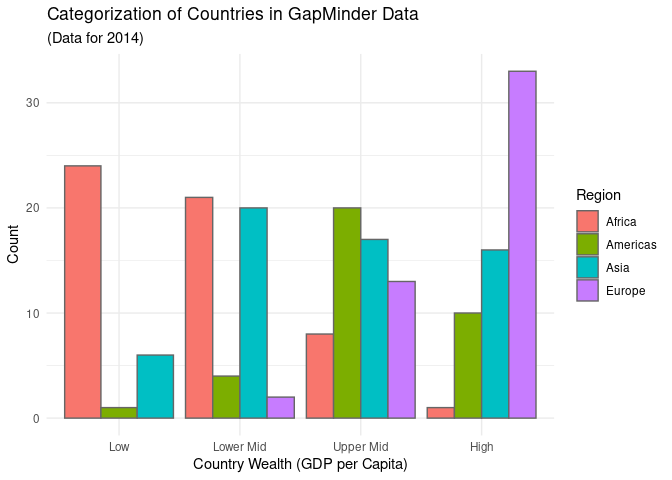
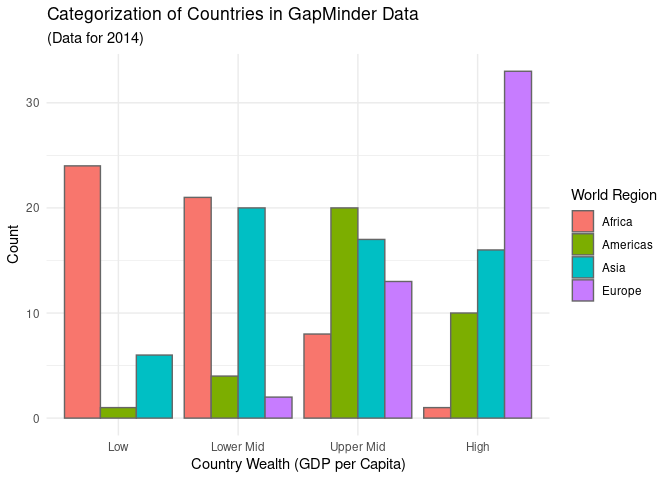
Fix even more errors in ggplot intro.

diff --git a/content/lehre/statistik-ii/grafiken-ggplot2.md b/content/lehre/statistik-ii/grafiken-ggplot2.md
@@ -190,7 +190,7 @@ In diesem Schritt wird noch einmal deutlich, was ich gerade bereits angesprochen
 
 > Daten müssen immer so aufbereitet sein, dass der grundlegende Datensatz sinnvoll benannte Variablen enthält und in dem Format vorliegt, in welchem wir die Daten visualisieren wollen.
 >
-> - ich, vor wenigen Minuten
+> -- ich, vor wenigen Minuten
 
 Wenn uns also etwas in unserer Abbildung nicht gefällt, ist der Ansatz in `ggplot` immer, die Daten anzupassen, weil Plots lediglich eine Darstellung dieser Daten sind. 
 
@@ -206,13 +206,7 @@ ggplot(edu_2014, aes(x = Wealth)) +
 
 Der immense Vorteil des Schichtens besteht darin, dass wir gleichzeitig mehrere Visualisierungsformen nutzen können. Das Prinzip bleibt das gleiche wie vorher: wir fügen Schichten mit dem `+` hinzu. Wir können also z.B. für Zeitverläufe einfach Punkte und Linien direkt miteinander kombinieren, oder für Abbildungen die Fehlerbalken direkt hinzufügen.
 
-In der Abbildung sieht es zunächst ganz danach aus, als hätten hauptsächlich reiche Länder Daten bereitgestellt. Weil die `NA` Kategorie uns nicht besonders viel Information liefert, schließen wir diese für die kommenden Abbildungen mal aus:
-
-
-```r
-edu_2014 <- subset(edu_2014, !is.na(Wealth))
-```
-
+In der Abbildung sieht es zunächst ganz danach aus, als hätten hauptsächlich reiche Länder Daten bereitgestellt.
 
 ### Plots als Objekte
 
@@ -245,7 +239,7 @@ ggplot(edu_2014, aes(x = Wealth)) +
   geom_bar(fill = 'blue', color = 'grey40')
 ```
 
-![](/lehre/statistik-ii/grafiken-ggplot2_files/figure-html/unnamed-chunk-10-1.png)<!-- -->
+![](/lehre/statistik-ii/grafiken-ggplot2_files/figure-html/unnamed-chunk-9-1.png)<!-- -->
 Bei Balken wird die Farbe des Balkens durch das Argument `fill` bestimmt - das Argument `color` bestimmt hingegen nur die Farbe des Rands. In diesem Fall haben alle Balken die Farbe geändert. Eine _Ästhetik_ im Sinne der `ggplot`-Grammatik ist immer abhängig von den Daten. Die globale Vergabe von Farbe ist also keine Ästhetik. Sie ist es nur, wenn wir sie von Ausprägungen der Daten abhängig machen. Das funktioniert z.B. so:
 
 
@@ -254,7 +248,7 @@ ggplot(edu_2014, aes(x = Wealth)) +
   geom_bar(aes(fill = Wealth), color = 'grey40')
 ```
 
-![](/lehre/statistik-ii/grafiken-ggplot2_files/figure-html/unnamed-chunk-11-1.png)<!-- -->
+![](/lehre/statistik-ii/grafiken-ggplot2_files/figure-html/unnamed-chunk-10-1.png)<!-- -->
 
 Über den Befehl `aes` definieren wir eine Ästhetik und sagen `ggplot`, dass die Farbe der Balken von der Ausprägung auf der Variable `Wealth` abhängen soll. Die Farbe kann aber natürlich auch von jeder anderen Variable im Datensatz abhängen - dadurch können wir die Farbe als dritte Dimension in der Darstellung unserer Daten nutzen.
 
@@ -382,7 +376,7 @@ ggplot(edu_2014, aes(x = Wealth, group = Region)) +
   geom_bar(aes(fill = Region), color = 'grey40', position = 'dodge') +
   labs(x = 'Country Wealth (GDP per Capita)',
     y = 'Count',
-    color = 'World Region') +
+    fill = 'World Region') +
   ggtitle('Categorization of Countries in GapMinder Data', '(Data for 2014)')
 ```
 
@@ -398,7 +392,7 @@ bars <- ggplot(edu_2014, aes(x = Wealth, group = Region)) +
   geom_bar(aes(fill = Region), color = 'grey40', position = 'dodge') +
   labs(x = 'Country Wealth (GDP per Capita)',
     y = 'Count',
-    color = 'World Region') +
+    fill = 'World Region') +
   ggtitle('Categorization of Countries in GapMinder Data', '(Data for 2014)')
 ```
 
@@ -409,14 +403,14 @@ Bisher haben wir gesehen, wie die "Rahmenbedingungen" der Grafik mit unserem The
 
 In `ggplot2` wird die Vergabe von Farben in der Ästhetik anhand von zwei Dingen unterschieden: der Geometrie und dem Skalenniveau der Variable, die die Färbung vorgibt. Kontinuierliche Variablen (Variablen, die in `R` als `numeric` definiert sind) werden anhand eines Blau-Farbverlaufs dargestellt, diskrete Variablen (Variablen, die in `R` als `factor` definiert sind) anhand eines vordefinierten Schemas unterschiedlicher Farben. Dieses Schema ist das [Brewer Farbschema](http://colorbrewer2.org/), welches ursprünglich für Kartendarstellungen entwickelt wurde. 
 
-Nehmen wir an, dass wir unsere Abbildung irgendwo drucken möchten - Farbdruck ist wahnsinnig teuer. Um mit Grautönen zu arbeiten, können wir z.B. `scale_color_grey` benutzen:
+Nehmen wir an, dass wir unsere Abbildung irgendwo drucken möchten - Farbdruck ist wahnsinnig teuer. Um mit Grautönen zu arbeiten, können wir z.B. `scale_fill_grey` benutzen:
 
 
 ```r
 bars + scale_fill_grey()
 ```
 
-![](/lehre/statistik-ii/grafiken-ggplot2_files/figure-html/unnamed-chunk-20-1.png)<!-- -->
+![](/lehre/statistik-ii/grafiken-ggplot2_files/figure-html/unnamed-chunk-19-1.png)<!-- -->
 
 Das bei den [Themes](#Themes) erwähnte Paket `ggthemes` enthält auch weitere Farbpaletten, die Sie nutzen können, um Ihren Plot nach Ihren Vorlieben zu gestalten. Wichtig ist beispielsweise, dass es eine Palette namens `colorblind` hat, die Farben so auswählt, dass sie auch von Personen mit Farbblindheit differenziert werden können. Darüber hinaus gibt es für Fans der Filme von Wes Anderson z.B. das Paket `wesanderson`, welches für jeden seiner Filme die Farbpalette parat hat. Wir können aber natürlich auch unsere ganz eigene Farbpalette definieren - z.B. die offizielle Farbpalette des Corporate Designs der Goethe Universität, die Sie auf den Folien von PsyBSc 1 und 2 im letzten Semester kennen (und lieben!) gelernt haben.
 
@@ -427,14 +421,14 @@ Für diese Palette können wir zunächst in einem Objekt die Farben festhalten, 
 gu_colors <- c('#00618f', '#e3ba0f', '#ad3b76', '#737c45', '#c96215')
 ```
 
-Dieses Objekt können wir dann nutzen, um mit `scale_color_manual` selbstständig Farben zuzuweisen:
+Dieses Objekt können wir dann nutzen, um mit `scale_fill_manual` selbstständig Farben zuzuweisen:
 
 
 ```r
 bars + scale_fill_manual(values = gu_colors)
 ```
 
-![](/lehre/statistik-ii/grafiken-ggplot2_files/figure-html/unnamed-chunk-22-1.png)<!-- -->
+![](/lehre/statistik-ii/grafiken-ggplot2_files/figure-html/unnamed-chunk-21-1.png)<!-- -->
 
 Die Zuordnung der Farben erfolgt anhand der Reihenfolge in `gu_colors` und der Reihenfolge der Ausprägungen von `Region`. Letztere ist - wie sie bestimmt festgestellt haben - alphabetisch. Wie häufig in `ggplot2` können Sie die Daten ändern (also mit `relevel` die Reihenfolge der Ausprägungen ändern) um Veränderungen in der Darstellung zu bewirken.
 
